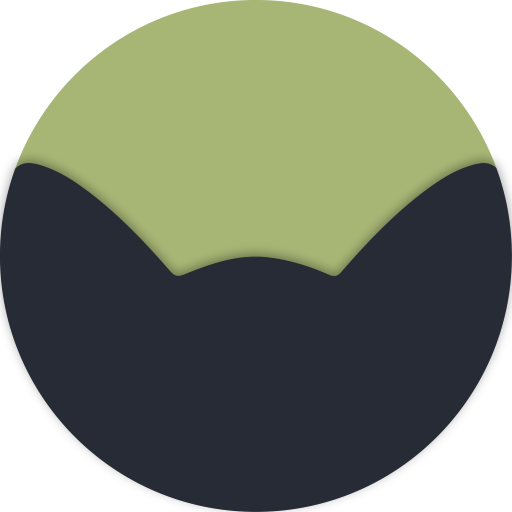
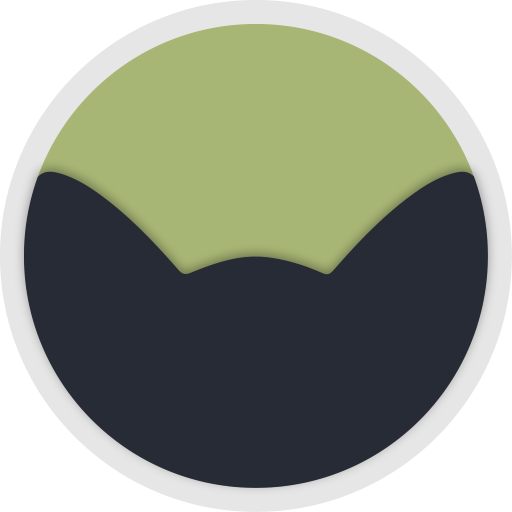
Nav and footer commit

diff --git a/css/style.css b/css/style.css
@@ -1,6 +1,6 @@
-/****************** GLOBAL ******************/
+/* GENERAL STYLES */
 :root {
-    --less-accent: #A39F4B;
+    --less-accent: #cad69c;
     --medium-accent: #A8B675;
     --more-accent: #80945D;
     --less-white: #E6E6E6;
@@ -8,15 +8,8 @@
     --less-black: #262B35;
     --more-black: #17171C;
 }
-* {
-    transition: all 0.2s ease;
-    -webkit-transition: all 0.2s ease;
-    -moz-transition: all 0.2s ease;
-    -ms-transition: all 0.2s ease;
-    -o-transition: all 0.2s ease;
-}
 html {
-    min-height: 100%;
+    min-height: 100vh;
     width: 100%;
     scroll-behavior: smooth;
 }
@@ -24,5 +17,94 @@ body {
     padding: 0%;
     background: var(--less-black);
     font-family: 'Poppins', sans-serif;
-    font-size: 1.2rem;
+}
+a:hover, a:focus {
+    transition: all 0.2s ease;
+    -webkit-transition: all 0.2s ease;
+    -moz-transition: all 0.2s ease;
+    -ms-transition: all 0.2s ease;
+    -o-transition: all 0.2s ease;
+}
+*:focus{
+    border: 2px solid var(--more-white);
+    border-radius: 5px;
+}
+
+/* HEADER STYLES */
+#logo {
+    padding: .5vh;
+    width: 50px;
+}
+header {
+    padding: 1vh;
+    display: flex;
+    flex-direction: column;
+    justify-content: center;
+    align-items: center;
+}
+.nav_list {
+    padding: .5vh 0;
+    text-align: center;
+    list-style: none;
+}
+.nav_tab {
+    padding: .5vh 0;
+}
+.nav_tab a {
+    color: var(--more-white);
+    font-size: 1.5em;
+    text-decoration: none;
+}
+.nav_tab a:hover, a:focus {
+    color: var(--less-accent);
+    text-decoration: underline;
+}
+a.skip {
+    background: var(--more-white);
+    top: -40px;
+    left: 10px;
+    padding: 6px;
+    position: absolute;
+    z-index: 1;
+    text-decoration: none;
+    -webkit-box-shadow: 4px 4px 10px 2px rgba(0, 0, 0, 0.3);
+    -moz-box-shadow: 4px 4px 10px 2px rgba(0, 0, 0, 0.3);
+    box-shadow: 4px 4px 10px 2px rgba(0, 0, 0, 0.3);
+}
+a.skip:focus {
+    top: 10px;
+    color: var(--more-black);
+}
+
+/* BODY STYLES */
+main {
+    min-height: 87vh;
+}
+
+/* FOOTER STYLES */
+footer {
+    padding: 2vh 4%;
+    background: var(--more-accent);
+    color: var(--more-white);
+    -webkit-box-shadow: 0 -4px 10px 2px rgba(0, 0, 0, 0.3);
+    -moz-box-shadow: 0 -4px 10px 2px rgba(0, 0, 0, 0.3);
+    box-shadow: 0 -4px 10px 2px rgba(0, 0, 0, 0.3);
+}
+
+/* TABLET SIZES AND ABOVE */
+@media screen and (min-width: 768px) {
+    header {
+        flex-direction: row;
+        justify-content: space-between;
+    }
+    .nav_list li {
+        display: inline;
+    }
+    .nav_tab a {
+        padding: .25vh 10px;
+    }
+}
+
+/* DESKTOP SIZES AND ABOVE */
+@media screen and (min-width: 992px) {
 }

diff --git a/gallery.html b/gallery.html
@@ -10,6 +10,23 @@
     <title>Winston's Gallery</title>
 </head>
 <body>
-    
+    <a class="skip" href="#skip">Skip to Main Content</a>
+    <header>
+        <img src="images/brand.png" id="logo" alt="Winston's logo">
+        <nav>
+            <ul class="nav_list">
+                <li class="nav_tab"><a href="index.html">About</a></li>
+                <li class="nav_tab"><a href="care.html">Care</a></li>
+                <li class="nav_tab"><a href="gallery.html">Gallery</a></li>
+                <li class="nav_tab"><a href="contact.html">Contact</a></li>
+            </ul>
+        </nav>
+    </header>
+    <main id="skip">
+
+    </main>
+    <footer>
+        <p>&copy; Ashwin Malik 2020<br>Crafted with love for my cat, Winston - and SI 539.</p>
+    </footer>
 </body>
 </html>

diff --git a/contact.html b/contact.html
@@ -10,6 +10,23 @@
     <title>Contact Winston</title>
 </head>
 <body>
-    
+    <a class="skip" href="#skip">Skip to Main Content</a>
+    <header>
+        <img src="images/brand.png" id="logo" alt="Winston's logo">
+        <nav>
+            <ul class="nav_list">
+                <li class="nav_tab"><a href="index.html">About</a></li>
+                <li class="nav_tab"><a href="care.html">Care</a></li>
+                <li class="nav_tab"><a href="gallery.html">Gallery</a></li>
+                <li class="nav_tab"><a href="contact.html">Contact</a></li>
+            </ul>
+        </nav>
+    </header>
+    <main id="skip">
+
+    </main>
+    <footer>
+        <p>&copy; Ashwin Malik 2020<br>Crafted with love for my cat, Winston - and SI 539.</p>
+    </footer>
 </body>
 </html>

diff --git a/care.html b/care.html
@@ -10,6 +10,23 @@
     <title>Winston's Care</title>
 </head>
 <body>
-    
+    <a class="skip" href="#skip">Skip to Main Content</a>
+    <header>
+        <img src="images/brand.png" id="logo" alt="Winston's logo">
+        <nav>
+            <ul class="nav_list">
+                <li class="nav_tab"><a href="index.html">About</a></li>
+                <li class="nav_tab"><a href="care.html">Care</a></li>
+                <li class="nav_tab"><a href="gallery.html">Gallery</a></li>
+                <li class="nav_tab"><a href="contact.html">Contact</a></li>
+            </ul>
+        </nav>
+    </header>
+    <main id="skip">
+
+    </main>
+    <footer>
+        <p>&copy; Ashwin Malik 2020<br>Crafted with love for my cat, Winston - and SI 539.</p>
+    </footer>
 </body>
 </html>

diff --git a/index.html b/index.html
@@ -10,6 +10,23 @@
     <title>Meet Winston</title>
 </head>
 <body>
-    
+    <a class="skip" href="#skip">Skip to Main Content</a>
+    <header>
+      <img src="images/brand.png" id="logo" alt="Winston's logo">
+      <nav>
+        <ul class="nav_list">
+            <li class="nav_tab"><a href="index.html">About</a></li>
+            <li class="nav_tab"><a href="care.html">Care</a></li>
+            <li class="nav_tab"><a href="gallery.html">Gallery</a></li>
+            <li class="nav_tab"><a href="contact.html">Contact</a></li>
+        </ul>
+      </nav>
+    </header>
+    <main id="skip">
+
+    </main>
+    <footer>
+        <p>&copy; Ashwin Malik 2020<br>Crafted with love for my cat, Winston - and SI 539.</p>
+    </footer>
 </body>
 </html>
